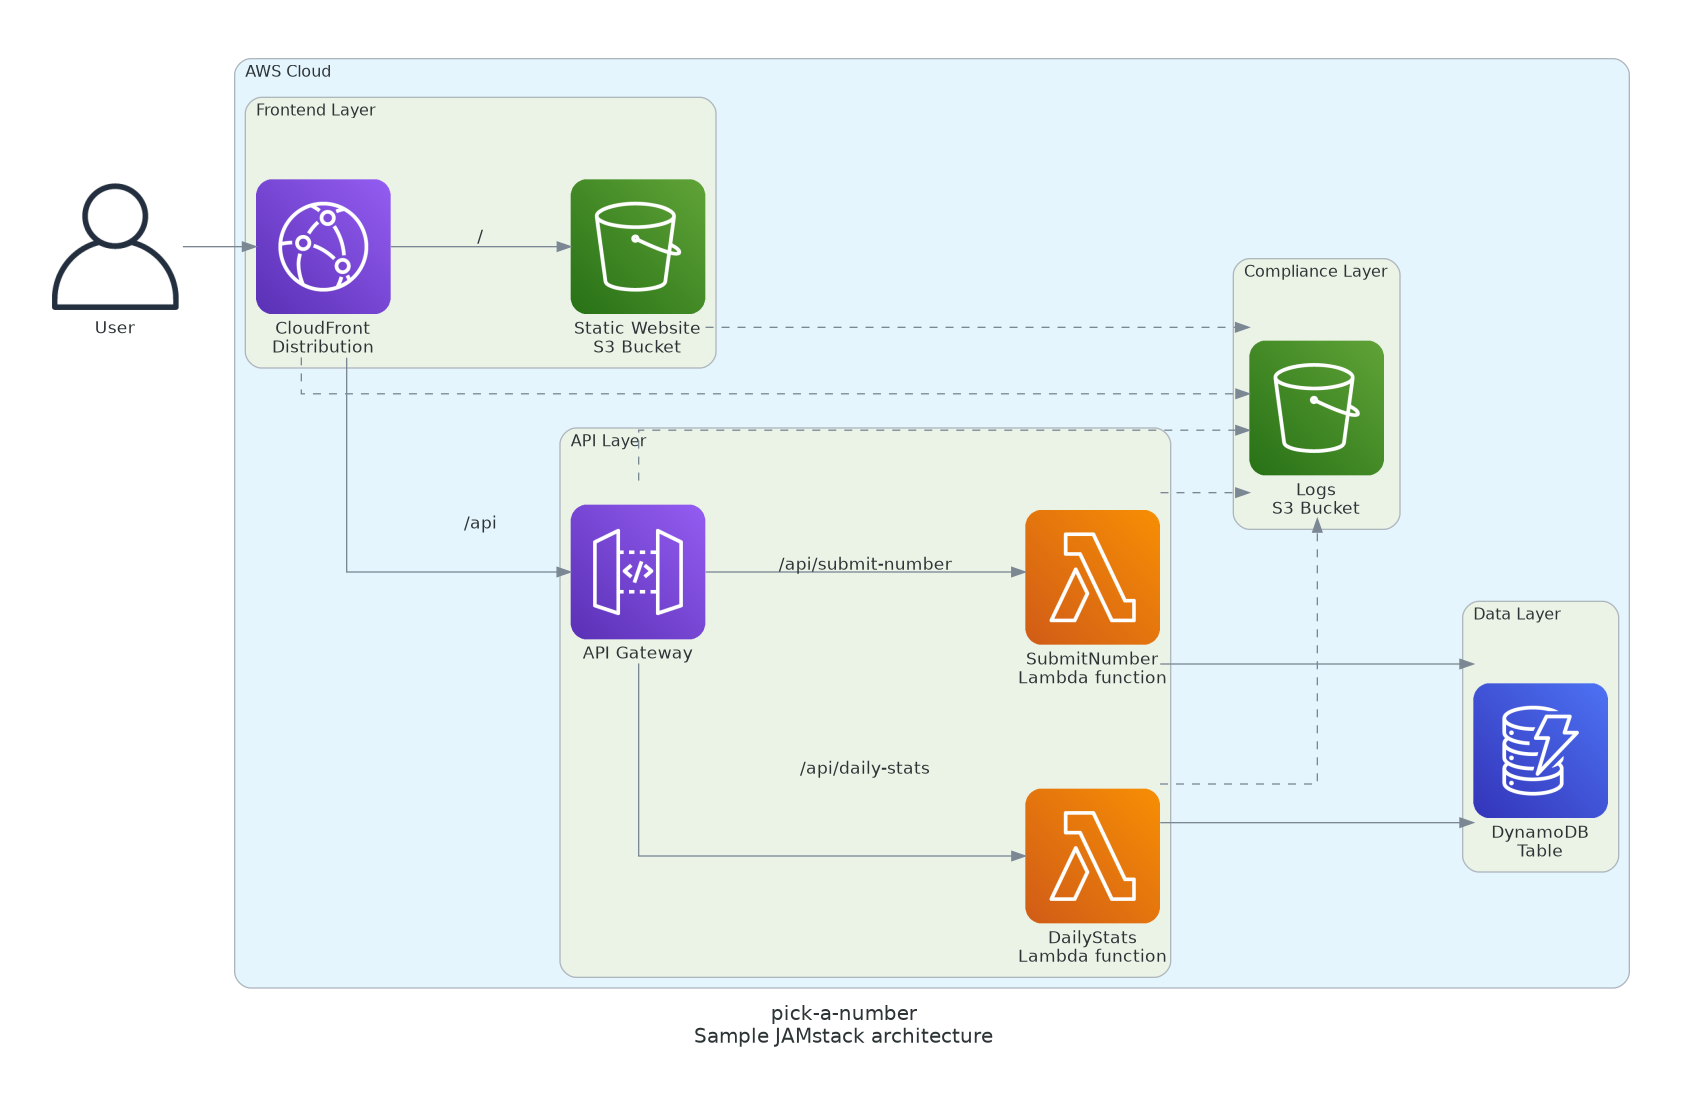
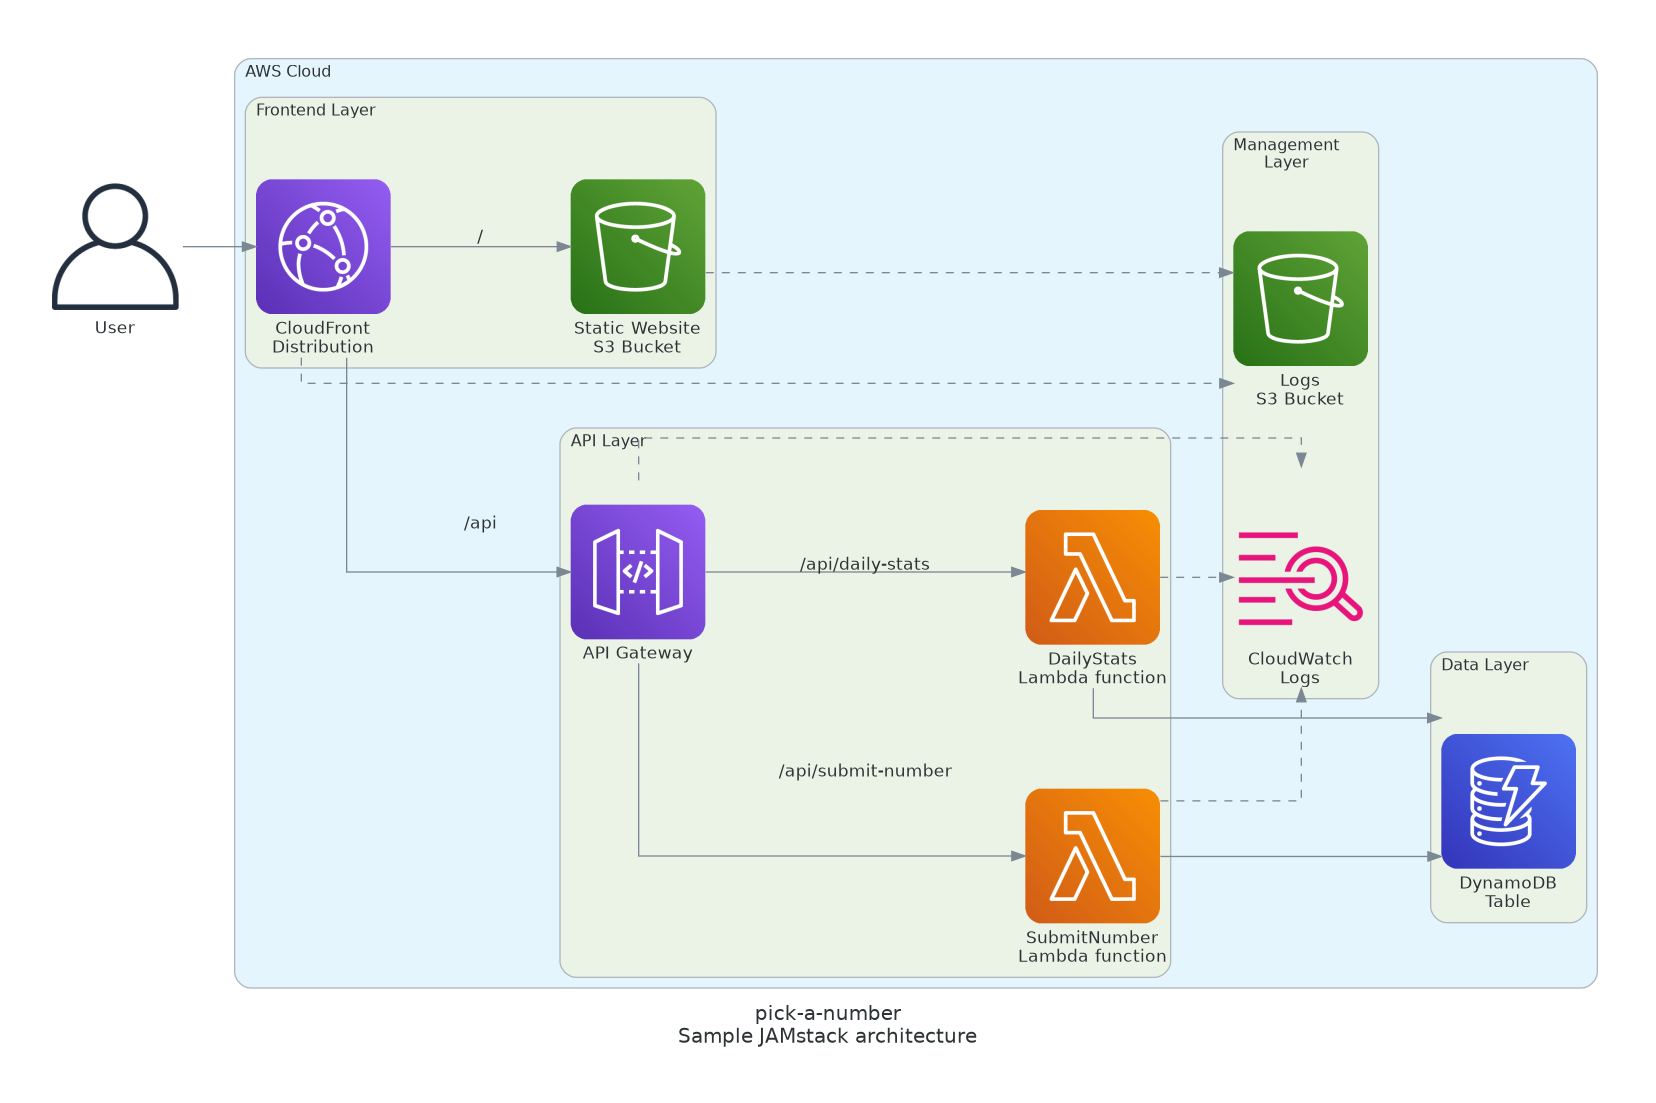
feat: logging for everything
- s3 log bucket for s3 access logs and cloudfront
- cloudwatch for API gateway and lambda

diff --git a/docs/ARCHITECTURE.md b/docs/ARCHITECTURE.md
@@ -40,10 +40,23 @@ The main objectives when designing this architecture have been:
   Using DynamoDB has the downside of the caller code needing to aggregate the
   data when doing a range query.
 
-### Compliance Layer
+### Management Layer
 
-- **Amazon S3**: logs for all components are forwarded to an S3 bucket and
-  retained for a configurable period.
+- **Logging**:
+  - **Amazon S3** and **CloudFront** logs can be only delivered to S3,
+    a "logs" bucket was added for this purpose together with a lifecycle policy
+    with the desired retention period. Typically in a production system these
+    events will be forwarded to a
+    [SIEM](https://en.wikipedia.org/wiki/Security_information_and_event_management)
+    system.
+  - **Application** level logs that need real-time monitoring
+    (API Gateway and Lambda) are delivered to Cloudwatch, the same retention
+    period is applied.
+- **Backups**:
+  - **~~DynamoDB Point-in-Time Recovery (PITR)~~** is not included in the AWS
+    Free Tier and incurs additional charges so it's **not part of the
+    architecture**. Possible alternatives would be manually creating backups
+    or automating on a schedule using EventBridge + Lambda.
 
 ## Request Flow
 
@@ -63,6 +76,5 @@ The main objectives when designing this architecture have been:
 - **Global CDN**: CloudFront edge locations worldwide cache content close
   to the user and provide DDoS protection
 - **Reliability**: Multi-AZ deployment with AWS managed services
-- **Compliance**: Auditability for all system components with log forwarding
-  and retention
+- **Auditable**: log forwarding and retention for all system components
 - **FinOps optimized**: Pay-per-use pricing model and budget notifications

diff --git a/README.md b/README.md
@@ -23,7 +23,8 @@ All of the components are contained in this repo including:
 
 - **Frontend**, a one page web app using HTML and vanilla JavaScript
 - **Backend**, a data ingestion REST API and persistence layer
-- **Compliance**, logging for all components, including a log retention policy
+- **Management**, logging for all components, including a log
+  retention policy
 - **Infrastructure-as-Code**, a CloudFormation template that deploys the
   AWS infrastructure, including an AWS Budget
 - **CI/CD and tooling**, a `devcontainer` configuration, local `pre-commit`
